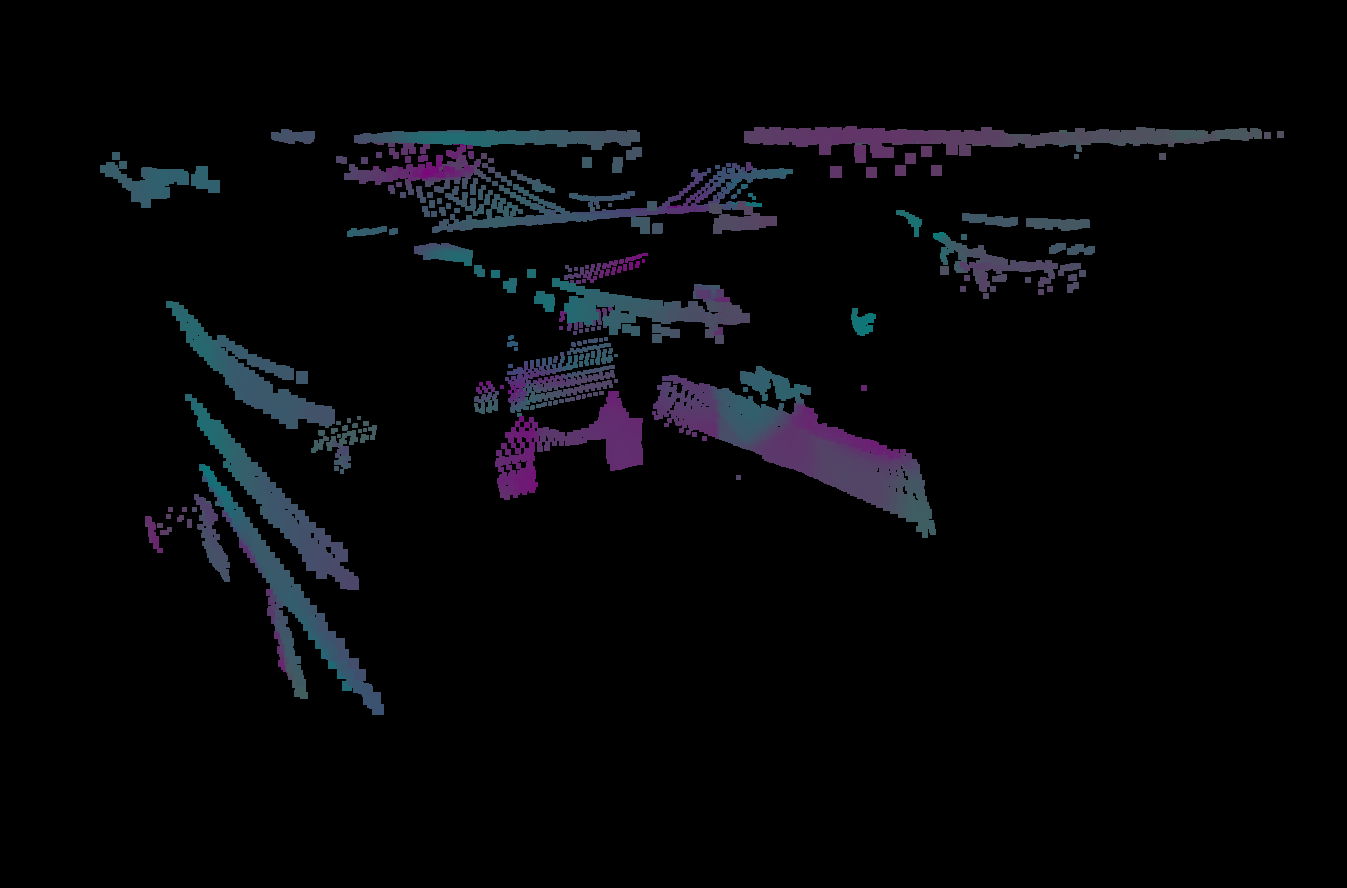
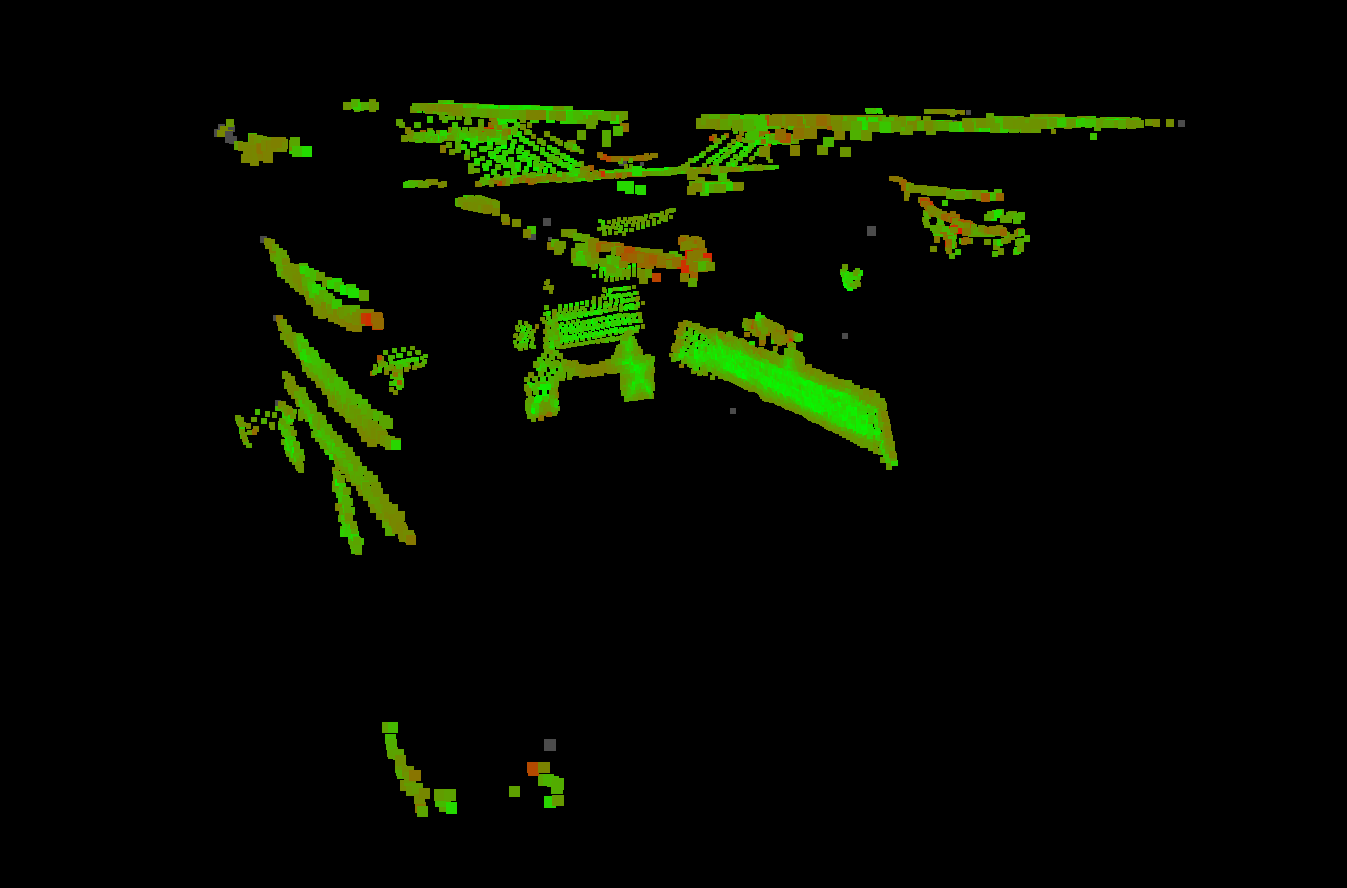
feat: update readme doc

diff --git a/README.md b/README.md
@@ -30,11 +30,12 @@ tree . -L 2
 在这一阶段主要通过锚点及其邻域点所构成的集合进行 PCA 主轴比例分析，主轴的比例通过特征向量的特征值表示，代表在该轴向上点云投影的分散程度，因此若三个主轴分散程度大致相当，则可认为邻域点集合的几何特征大致是球形，否则就是平面型或者线型。通过将三个比例转换为对应的颜色分量以进行可视化或者过滤选择。
 
 ```python
-eigval_list = np.concatenate((eigval_list, np.array([
+eigvals, eigvecs = utils.pca_k(points[neighbour_idx_list], 3)
+assert eigvals[0] >= eigvals[1] and eigvals[1] >= eigvals[2]
+feat = np.array([
     (eigvals[0] - eigvals[1]) / (eigvals[0] + 1e-9),
-    (eigvals[1] - eigvals[2]) / (eigvals[1] + 1e-9),
-    (eigvals[0] - eigvals[2]) / (eigvals[0] + 1e-9),
-]).reshape(-1, 3)), axis=0)
+    (eigvals[1] - eigvals[2]) / (eigvals[1] + 1e-9)
+])
 ```
 
 ![rad_feature](assets/images/sample_rad.png)
@@ -48,21 +49,27 @@ eigval_list = np.concatenate((eigval_list, np.array([
 目前采用的方法是计算柱形邻域内的邻域点集合的 PCA 主轴与垂直向量 $(0,0,1)$ 的夹角，但是目前就效果而言不是很好，受到天花板和墙壁的影响，柱形邻域的主轴方向不能很好的体现邻域的垂直性，计划考虑使用其他的统计特征，比如邻域内点与锚点形成的向量术与垂直向量夹角的平均值。
 
 ```python
-square_neighbours_mask = (np.abs(points[:, 0] - query[0]) < border) & (np.abs(points[:, 1] - query[1]) < border)
-square_neighbours = points[square_neighbours_mask]
+query = points[query_idx]
+mask = (
+    (np.abs(points[:, 0] - query[0]) < stage2_border / 2.0) &
+    (np.abs(points[:, 1] - query[1]) < stage2_border / 2.0) &
+    (np.abs(points[:, 2] - query[2]) < stage2_border)
+)
+mask[query_idx] = False
+vicinity = points[mask]
+if len(vicinity) < 3:
+    stage2_feat_list.append(0.0)
+    continue
 
-feat = np.array([
-    my_cos(eigvecs[:, 0], np.array([0, 0, 1])), # angle feat between eig1 and (0,0,1)
-    my_cos(eigvecs[:, 1], np.array([0, 0, 1])), # angle feat between eig2 and (0,0,1)
-    my_cos(eigvecs[:, 2], np.array([0, 0, 1]))  # angle feat between eig3 and (0,0,1)
-]).reshape(-1, 3)
+feat = (1.0 - utils.sin_batch(points[mask] - query, np.array([0, 0, 1]))).mean()
 ```
 
 ![feature_vtl](assets/images/sample_vtl.png)
 
 图中红色与绿色分量较多，证明第一主轴和第二主轴都可能与垂直向量靠近，因为 PCA 主轴分析无法固定第一轴的向量，因此尽管三轴两两正交，但无法确定第一第二主轴的方向。
 
-# 后续计划
-- 改进第二阶段滤波使用的特征
-- 分离过滤结果实例
-- 学习三维目标检测可视化，对过滤出的目标生成锚框，计算线型实例之间的最近距离
+## ply 文件中的三维 AABB 包围盒显示
+
+因为不方便安装 PCL 环境，也就没有办法做包围盒的渲染，所以还是需要本地实现一个包围盒算法和渲染方法比较好。我的想法是使用基于格雷码的顺序连线完成包围框的顶点连线，这样不会出现对角线连线的错误，并且这种方法是普适的，也适用于 OBB 类型的有向包围盒。这种本地渲染并将信息直接保存到文件中的好处是，后续如果需要在其他机器上查看结果不需要配置繁杂的开发环境，直接下一个可用的点云可视化软件就行了。
+
+![aabb_box](assets/images/aabb_ply.png)
